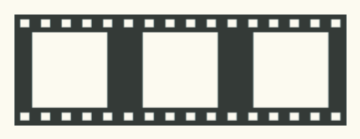
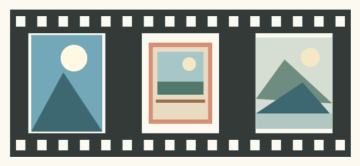
Align record and film method examples with output

diff --git a/src/creation-library/examples.js b/src/creation-library/examples.js
@@ -67,6 +67,10 @@ export function techniqueExample(method){
   before.push({op:'material.add',id:'note',asset:'m6',place:{reference:'page',at:[72,88],unit:'mm'}});
  }
  if(method.id==='graphic-bubble')before.push({op:'material.add',id:'photo',asset:'m1',place:{reference:'page',at:[80,121],unit:'mm'}});
+ if(method.id==='graphic-film-frame'){
+  p.widthMm=134;p.heightMm=58;
+  for(const [i,alias] of ['m1','m8','m9'].entries())before.push({op:'material.add',id:'photo-'+i,asset:alias,place:{reference:'page',at:[72-134/2+134*(i+.5)/3,88],unit:'mm'}});
+ }
  if(method.id==='graphic-arrow')before.push({op:'material.add',id:'photo',asset:'m1',place:{reference:'page',at:[35,88],unit:'mm'}},{op:'material.add',id:'card',asset:'m2',place:{reference:'page',at:[108,88],unit:'mm'}});
  if(['graphic-wave','graphic-zigzag'].includes(method.id)){
   for(const [id,content,y] of [['first','一段短记',77],['second','另一段短记',95]])before.push({op:'text.add',id,content,place:{reference:'page',at:[45,y],unit:'mm',anchor:'top-left'},size:{width:54,unit:'mm'},style:{fontFamily:'Xiaolai',fontSizePt:11,color:'#3D6871'}});
@@ -99,6 +103,8 @@ export function techniqueExample(method){
   if(method.id==='tape-divider')before.push({op:'material.add',id:'card',asset:'m2',place:{reference:'page',at:[72,72],unit:'mm'}},{op:'material.add',id:'note',asset:'m6',place:{reference:'page',at:[72,106],unit:'mm'}});
  }
  if(method.recipe==='record')p.items=['留下一片颜色','写下一句短记','收好今天的小物'];
+ if(method.id==='record-timeline')p.items=['08:00 走出家门','14:00 走进旧书店','19:00 写下今日小记'];
+ if(method.id==='record-columns'){p.widthMm=110;p.fontSizePt=13;p.items=['照片：记录光线','纸片：记录触感','蓝色：安静留白','橙色：局部强调'];}
  if(method.recipe==='write'){
   delete p.at;p.target='note';p.box=[.12,.16,.76,.68];p.text='留一片颜色，\n记一件小事。';p.fontSizePt=11;
   before.push({op:'material.add',id:'note',asset:'m6',place:{reference:'page',at:[70,80],unit:'mm',rotationDeg:-8}});

diff --git a/tests/creation-library.test.js b/tests/creation-library.test.js
@@ -150,6 +150,16 @@ test('bubble lesson creates editable text inside the frame and rejects overflow'
  assert.throws(()=>compileTechnique({methodId:'graphic-bubble',parameters:{id:'bubble',text:'这段批注长到不可能放进很小的气泡主体内',widthMm:20,heightMm:12}}),/超出框内可写区域/);
  for(const id of ['graphic-arch','graphic-scallop-frame','graphic-paperclip'])assert.ok(describeTechnique(id).example.prepare.some(op=>op.op==='material.add'),id+' missing context');
 });
+test('timeline connector ends at the first and last event, with no tail for a single event',()=>{
+ const operations=compileTechnique({methodId:'record-timeline',parameters:{id:'time',items:['早晨','午后','夜晚']}}).operations[0].children;
+ const circles=operations.filter(op=>op.op==='graphic.add'&&op.geometry.kind==='ellipse');
+ const line=operations.find(op=>op.op==='graphic.add'&&op.geometry.kind==='rect'&&op.size.width===.25);
+ assert.equal(circles.length,3);assert.ok(line);
+ assert.equal(line.place.at[1]-line.size.height/2,circles[0].place.at[1]);
+ assert.equal(line.place.at[1]+line.size.height/2,circles.at(-1).place.at[1]);
+ const single=compileTechnique({methodId:'record-timeline',parameters:{id:'one',items:['唯一事件']}}).operations[0].children;
+ assert.ok(!single.some(op=>op.op==='graphic.add'&&op.geometry.kind==='rect'&&op.size.width===.25));
+});
 test('template ranking is deterministic and does not mutate real material dimensions',()=>{
  const input=structuredClone(exampleMaterials),args={materials:input,paper:{width:148,height:210},limit:5};
  assert.deepEqual(rankTemplates(args),rankTemplates(args));assert.deepEqual(input,exampleMaterials);

diff --git a/src/creation-library/techniques.js b/src/creation-library/techniques.js
@@ -170,7 +170,7 @@ export function compileTechnique({methodId,parameters,materials=[]}){
    else if(p.layout==='checklist')shape('rect',x+2,y+3,3,3,{fill:null,stroke:colors[0],strokeWidthMm:.3});
    text(p.items[i],x+8,y,rowWidth-9,{fontSizePt:size});
   }height=Math.max(height,y+Math.max(...heights.slice(-col)));
-  if(p.layout==='timeline'){shape('rect',3,height/2,.25,height,{fill:colors[1]||colors[0]});children.unshift(children.pop());}
+  if(p.layout==='timeline'&&y>0){shape('rect',3,3+y/2,.25,y,{fill:colors[1]||colors[0]});children.unshift(children.pop());}
  }else {
   const target=p.target;libraryID(target);let operations;
   if(method.recipe==='relate')operations=[{op:'material.relate',target,relation:{kind:'peek',reference:'node:'+p.referenceTarget,edge:p.edge||'right',exposedMm:p.amountMm??4}}];

diff --git a/docs/CREATION_LIBRARY_AUDIT.md b/docs/CREATION_LIBRARY_AUDIT.md
@@ -221,3 +221,11 @@
 - 五个数字点缀方法的示意分别放在照片角、照片两侧、便签纸边、两件素材之间和便签空角，展示各自服务的内容。对五个方法分别改写步骤与检查项，避免用同一组泛化文字描述不同用途。七张新示意已逐张目视核对；合成素材仍只是工具示意，不是用户真实素材。
 - 本轮不增加方法或模板，仍为 72 个方法、78 个模板；后续模板解析继续暂停。
 - 完整回归 1960 项通过、1 项跳过、0 失败；UI smoke、React 流程及 7 视口路由通过。未进行远程模型自主创作、实体设备验收或上线。
+
+## 记录与胶片方法复核
+
+- 时间线连接线改为只连接首末事件节点；单一事件不画无意义的竖线。示例使用三个有明确顺序的时刻，测试同时覆盖三事件和单事件。视觉检查确认线没有越过末节点。
+- 双栏短记示例改成两行、左右各一项的对照内容，并使用较宽区域和适合的字号，避免示意被意外折成碎行。工具仍按真实文本测量逐行分配高度；内容由调用方提供。
+- 独立胶片边框的示意加入三张原尺寸合成照片，先放照片，再叠加透明多格边框。视觉检查确认三张照片均从窗口透出，边框未把照片拉伸或裁成格子。照片胶片组原示意保持不变；独立边框适合已有照片已对齐的情况。
+- 模板仍为 78 个，后续解析继续暂停；方法仍为 72 个。示例是本机执行输出，未调用远程模型或进行实体设备验收。
+- 完整回归 1961 项通过、1 项跳过、0 失败；UI smoke、React 流程及 7 视口路由通过。未合并或上线。
